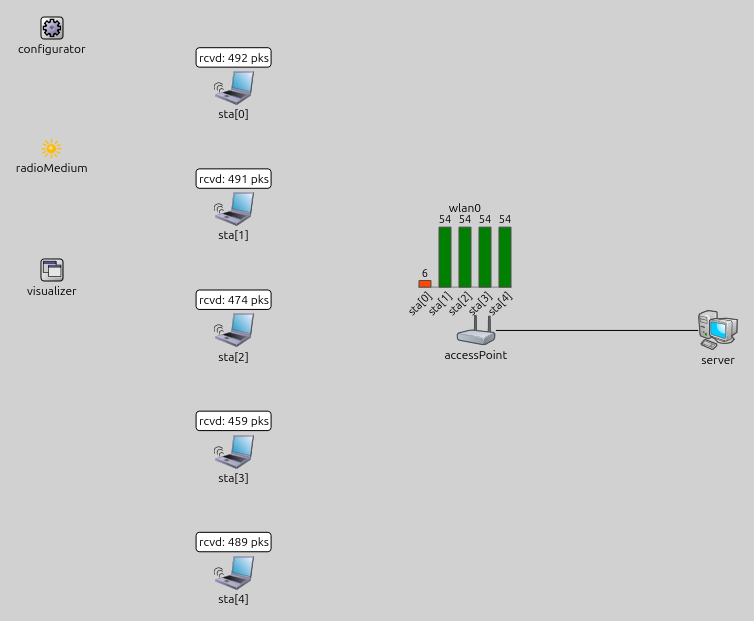
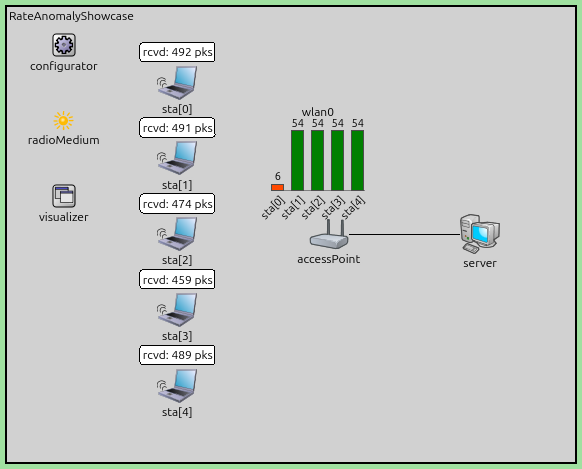
showcases/wireless/rateanomaly: recapture downlink-cell figures via fixed get_canvas_image
With the updated MCP get_canvas_image (now renders the live inspector, i.e.
Qtenv's "Export to Image"), the visualizer overlays land in place, so both
downlink figures are a clean single get_canvas_image call -- gray canvas, green
playground frame, name label, 5px margin, no chrome and no post-crop. Recipes
updated to the fit + get_canvas_image(area=module_rectangle) flow.

Changed region(s): [[0.0, 0.0, 1.0, 1.0], [0.433, 0.2388, 0.6804, 0.597], [0.7732, 0.4478, 0.866, 0.5672]]

diff --git a/showcases/wireless/rateanomaly/doc/index.rst b/showcases/wireless/rateanomaly/doc/index.rst
@@ -445,18 +445,17 @@ The frame-fair run is shown first, the airtime-fair run below it:
 .. figure:: media/downlink-cell-anomaly.png
 ..
    FIGURE RECIPE (redo via the "omnetpp-mcp-sim" skill)
-   type:     canvas (Qtenv window capture)
+   type:     canvas (get_canvas_image, live inspector)
    config:   DownlinkAnomaly, run 0
    seed:     default
    shows:    the downlink cell under the frame-fair AP queue -- rate-visualizer bars (sta[0]=6 red,
              sta[1..4]=54 green) and per-station received-packet counts (all clients ~460-490)
    anchor:   at t=2s (1s past warmup); counts scale with time, the anomaly/fix contrast is
              structural. If the bars stop showing 6 vs 54, the dcf datarateSelected wiring changed.
-   capture:  get_canvas_image is unusable here (it renders the visualizer annotations at the canvas
-             origin). Grab the network's graphical inspector widget instead -- run to 2s express,
-             get_inspector_screenshot(RateAnomalyShowcase, type=graphical, 900x720); it auto-fits and
-             renders the bars/labels faithfully on the gray (209) canvas. Crop off the inspector
-             toolbar, scrollbars, module-name banner and zoom overlay; keep a 16px gray margin.
+   capture:  get_canvas_image (post-2026-07 fix it renders the live inspector = Qtenv's "Export to
+             Image", so the visualizer overlays land in place, no chrome) -- run to 2s express,
+             set_canvas_view(RateAnomalyShowcase, fit=true), then
+             get_canvas_image(RateAnomalyShowcase, area=module_rectangle, margin=5). No cropping.
    record:   inet -u Qtenv -c DownlinkAnomaly --mcp-server-address localhost:8765
              (DownlinkBase spreads the clients 4 m apart so the per-station readouts don't overlap)
    stamp:    captured 2026-07, INET 4.6
@@ -464,7 +463,7 @@ The frame-fair run is shown first, the airtime-fair run below it:
 .. figure:: media/downlink-cell-fair.png
 ..
    FIGURE RECIPE (redo via the "omnetpp-mcp-sim" skill)
-   type:     canvas (Qtenv window capture)
+   type:     canvas (get_canvas_image, live inspector)
    config:   DownlinkAirtimeFair, run 0
    seed:     default
    shows:    the same cell under the airtime-fair AP queue -- identical rate-visualizer bars
@@ -472,7 +471,7 @@ The frame-fair run is shown first, the airtime-fair run below it:
              the four fast clients ~870-960
    anchor:   at t=2s (1s past warmup); counts scale with time, the anomaly/fix contrast is
              structural. If the bars stop showing 6 vs 54, the dcf datarateSelected wiring changed.
-   capture:  same graphical-inspector widget grab as the anomaly figure above, for this config.
+   capture:  same get_canvas_image live-inspector capture as the anomaly figure above, for this config.
    record:   inet -u Qtenv -c DownlinkAirtimeFair --mcp-server-address localhost:8765
              (DownlinkBase spreads the clients 4 m apart so the per-station readouts don't overlap)
    stamp:    captured 2026-07, INET 4.6
